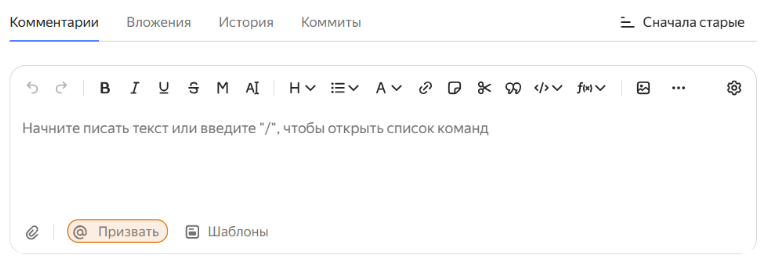
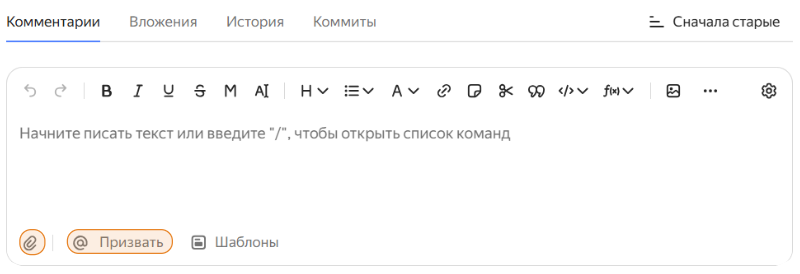
Масштаб кадров, нумерация шагов, чистка раздела о комментариях
Кадры больше не растягиваются на всю колонку: у figure img снят
width 100%. Узкие снимки — правая панель задачи, чек-лист — раздувались
до 800px, и текст внутри них выходил крупнее, чем на широких кадрах.
Теперь каждый показывается в своём размере, колонка только ограничивает.

Шесть заголовков шагов получили оранжевые номера через счётчик. Номер
в отдельной колонке сетки, поэтому вторая строка заголовка идёт под
первой, а не под цифрой.

Свёрнутый блок «Возможности управления чек-листом» удалён вместе
с четырьмя правилами details.more-info, которые после этого осиротели.

Пункты чек-листа описаны в общем виде, без конкретного примера.
Убран повтор «При необходимости» в начале соседних пунктов.

В «Дополнительных возможностях комментариев» оставлены только реакции;
ответ с цитированием и связывание задач убраны. Кадр с полем ввода
комментария перенесён к пункту про вложение файла.

diff --git a/index.html b/index.html
@@ -177,6 +177,23 @@ h2 {
 #create h2,
 #context h2 { display: block; }
 
+/* Шесть шагов ключевой статьи нумеруются счётчиком: номер в отдельной
+   колонке, чтобы вторая строка заголовка шла под первой, а не под цифрой. */
+#create { counter-reset: step; }
+#create h3 {
+  counter-increment: step;
+  display: grid;
+  grid-template-columns: 1.75rem 1fr;
+  gap: 0.75rem;
+  align-items: baseline;
+}
+#create h3::before {
+  content: counter(step);
+  font-size: 0.85em;
+  font-weight: 700;
+  color: var(--orange);
+}
+
 h2 { scroll-margin-top: 1.5rem; }
 
 h3 {
@@ -362,28 +379,13 @@ pre.code-block {
   margin: 1rem 0 1.5rem;
 }
 
-details.more-info {
-  margin: 1.5rem 0;
-  padding: 0.8rem 1rem;
-  border: 1px solid var(--card-line);
-  border-radius: 8px;
-  background-color: #fafafa;
-}
-details.more-info summary {
-  font-weight: 620;
-  color: var(--orange-d);
-  cursor: pointer;
-}
-details.more-info summary:hover {
-  text-decoration: underline;
-}
-details.more-info .more-content {
-  margin-top: 0.8rem;
-}
-
 /* ——— иллюстрации ——— */
 figure { margin: 1.5rem 0 1.75rem; text-align: center; }
-figure img { display: block; width: 100%; max-width: 100%; height: auto; margin-inline: auto; border-radius: 8px; }
+/* Ширина не форсируется: каждый кадр показывается в своём натуральном
+   размере и лишь ограничивается колонкой. Иначе узкие снимки — например
+   правая панель задачи — раздувались до 800px, и текст внутри них
+   оказывался крупнее, чем на широких кадрах. */
+figure img { display: block; max-width: 100%; height: auto; margin-inline: auto; border-radius: 8px; }
 figcaption { font-size: 0.8125rem; color: var(--faint); margin-top: 0.5rem; }
 figcaption a { text-decoration: underline; text-underline-offset: 0.2em; }
 
@@ -671,37 +673,20 @@ figcaption a { text-decoration: underline; text-underline-offset: 0.2em; }
               <figcaption>Добавление чек-листа под описанием</figcaption>
             </figure>
           </li>
-          <li>Последовательно добавьте следующие пункты, нажимая <b>«Сохранить»</b> или клавишу <code>Enter</code> после каждого:
-            <ul>
-              <li><code>1. Согласовать с UI/UX дизайн кнопки СБП</code></li>
-              <li><code>2. Подготовить спеку API для разработчиков</code></li>
-              <li><code>3. Проверить сценарий оплаты на тестовом стенде</code></li>
-            </ul>
-          </li>
+          <li>Последовательно добавьте пункты, нажимая <b>«Сохранить»</b> или клавишу <code>Enter</code> после каждого.</li>
           <li>При необходимости укажите отдельного исполнителя и дедлайн для каждого пункта чек-листа непосредственно в его строке.
             <figure>
               <img src="images/05-checklist-items-deadlines.png" alt="Настройка чек-листа">
               <figcaption>Настройка пунктов, исполнителей и дедлайнов в чек-листе</figcaption>
             </figure>
           </li>
-          <li>При необходимости удалите ненужные пункты, наведя на пункт и нажав на значок корзины справа.
+          <li>Чтобы удалить лишний пункт, наведите на него и нажмите значок корзины справа.
             <figure>
               <img src="images/06-checklist-delete.png" alt="Удаление пункта чек-листа">
               <figcaption>Удаление пункта чек-листа</figcaption>
             </figure>
           </li>
         </ol>
-
-        <details class="more-info">
-          <summary>Возможности управления чек-листом (нажмите, чтобы узнать больше)</summary>
-          <div class="more-content">
-            <ul class="plain">
-              <li><span>Для смены порядка пунктов перетаскивайте их за значок слева.</span></li>
-              <li><span>Отметка флажка слева от пункта переводит его в статус выполненного.</span></li>
-              <li><span>Нажмите на сам пункт, чтобы отредактировать текст, изменить дедлайн или назначить исполнителя.</span></li>
-            </ul>
-          </div>
-        </details>
 
         <!-- Настройка атрибутов -->
         <h3 id="create-step4">Настройка атрибутов задачи (Правая панель)</h3>
@@ -732,21 +717,18 @@ figcaption a { text-decoration: underline; text-underline-offset: 0.2em; }
           <li>Прокрутите страницу задачи вниз до блока <b>«Комментарии»</b>.</li>
           <li>В поле ввода введите текст (например: <i>«Коллеги, подготовил спецификацию API СБП. Просьба провести ревью»</i>).</li>
           <li>Нажмите кнопку <b><code>@ Призвать</code></b> под полем ввода и выберите из списка разработчика или техлида. Пользователь получит прямое уведомление и задача отобразится у него в фильтре <i>«Ждут ответа»</i>.</li>
-          <li>Для вложения артефактов нажмите <b><code>Прикрепить файл</code></b> (или перетащите файл прямо в окно ввода).</li>
+          <li>Для вложения артефактов нажмите <b><code>Прикрепить файл</code></b> (или перетащите файл прямо в окно ввода).
+            <figure>
+              <img src="images/09-comment-reply-mention.png" alt="Призыв и ответ">
+              <figcaption>Использование функций «Призвать» и «Ответить»</figcaption>
+            </figure>
+          </li>
           <li>Нажмите кнопку <b>«Отправить»</b>.</li>
         </ol>
 
-        <h4>Дополнительные возможности комментариев:</h4>
         <ul class="plain">
-          <li><span><b>Ответ с цитированием:</b> Наведите на комментарий коллеги и нажмите <b><code>Ответить</code></b>, чтобы процитировать фрагмент.</span></li>
           <li><span><b>Реакции:</b> Наведите на комментарий и нажмите значок эмодзи (👍, 🚀, ✅), чтобы быстро подтвердить получение информации.</span></li>
-          <li><span><b>Связывание задач:</b> Если в тексте комментария написать ключ другой задачи (например, <code>PAY-42</code>), Яндекс Трекер автоматически создаст между ними межочередную связь.</span></li>
         </ul>
-
-        <figure>
-          <img src="images/09-comment-reply-mention.png" alt="Призыв и ответ">
-          <figcaption>Использование функций «Призвать» и «Ответить»</figcaption>
-        </figure>
 
         <figure>
           <img src="images/10-comment-emoji-reactions.png" alt="Реакции эмодзи">
